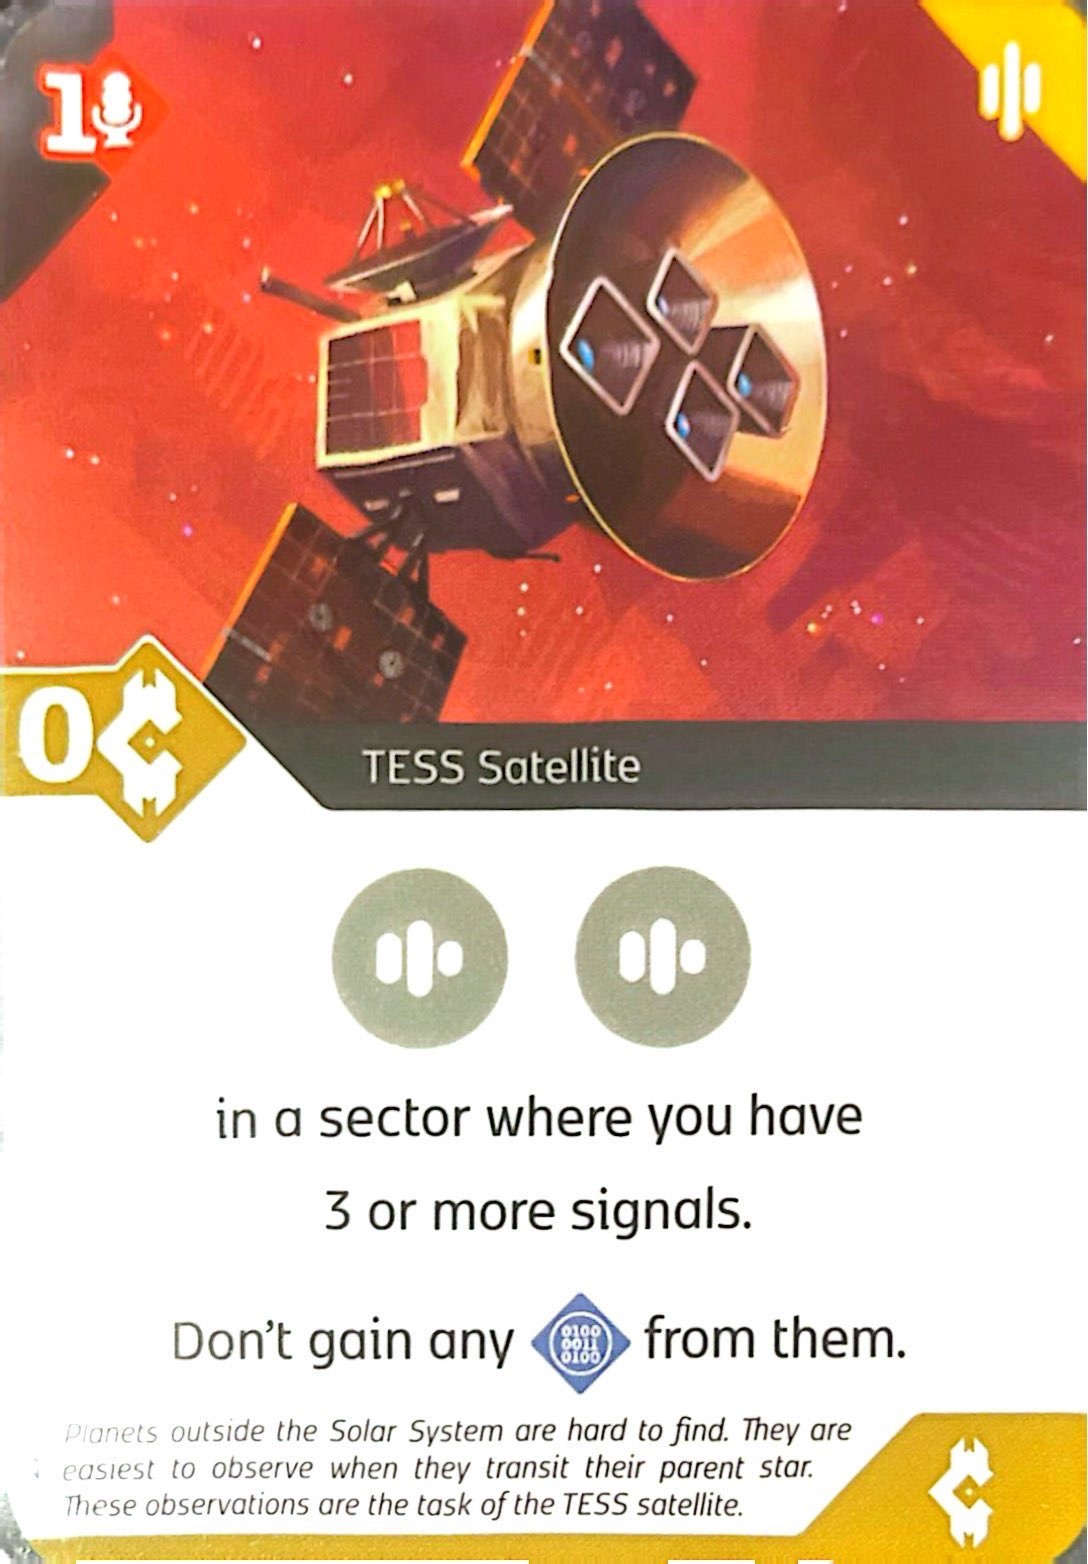
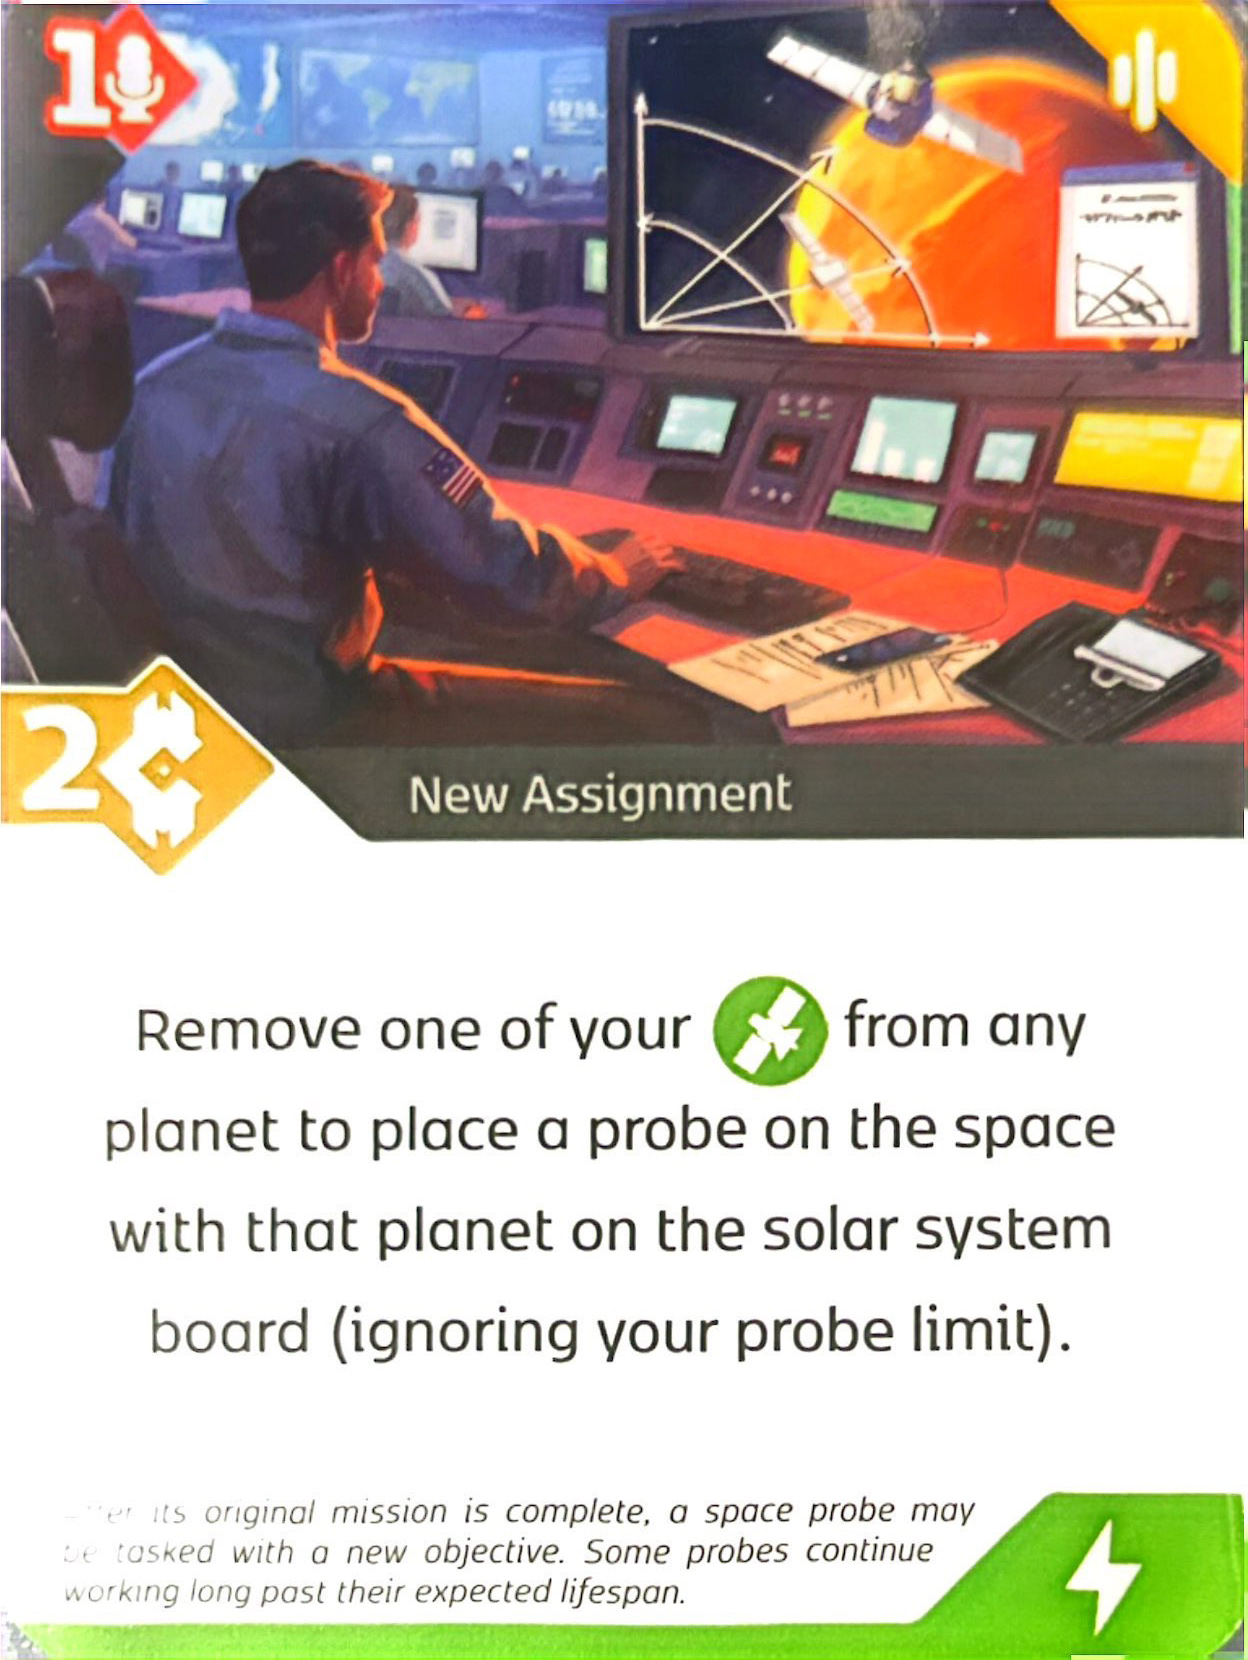
fix: typos

diff --git a/src/data/spaceAgencyCards.ts b/src/data/spaceAgencyCards.ts
@@ -1,8 +1,8 @@
 /*
  * @Author: Ender-Wiggin
  * @Date: 2024-10-22 00:01:17
- * @LastEditors: Ender-Wiggin
- * @LastEditTime: 2025-12-01 16:43:47
+ * @LastEditors: Ender Wiggin
+ * @LastEditTime: 2025-12-15 01:46:06
  * @Description:
  */
 /** biome-ignore-all lint/suspicious/noExplicitAny: <> */
@@ -133,7 +133,7 @@ const _spaceAgencyCards: IBaseCard[] = [
   {
     id: '11',
     name: 'Psyche Probe',
-    image: '/images/cards/space-agency/22.jpg',
+    image: '/images/cards/space-agency/11.jpg',
     freeAction: [{ type: EResource.DATA, value: 1 }],
     sector: ESector.RED,
     price: 3,
@@ -224,13 +224,13 @@ const _spaceAgencyCards: IBaseCard[] = [
   },
   {
     id: '19',
-    name: 'TESS Satellite',
+    name: 'New Assignment',
     image: '/images/cards/space-agency/19.jpg',
     freeAction: [{ type: EResource.PUBLICITY, value: 1 }],
     sector: ESector.YELLOW,
-    price: 0,
-    income: EResource.CREDIT,
-    effects: [e.SIGNAL_ANY(2), DESC('sa.desc.card_19')],
+    price: 2,
+    income: EResource.ENERGY,
+    effects: [DESC('sa.desc.card_19')],
   },
   {
     id: '20',
@@ -266,13 +266,13 @@ const _spaceAgencyCards: IBaseCard[] = [
   },
   {
     id: '22',
-    name: 'New Assignment',
-    image: '/images/cards/space-agency/11.jpg',
+    name: 'TESS Satellite',
+    image: '/images/cards/space-agency/22.jpg',
     freeAction: [{ type: EResource.PUBLICITY, value: 1 }],
     sector: ESector.YELLOW,
-    price: 2,
-    income: EResource.ENERGY,
-    effects: [DESC('sa.desc.card_22')],
+    price: 0,
+    income: EResource.CREDIT,
+    effects: [e.SIGNAL_ANY(2), DESC('sa.desc.card_22')],
   },
   {
     id: '23',

diff --git a/src/data/spaceAgencyAliens.ts b/src/data/spaceAgencyAliens.ts
@@ -2,8 +2,8 @@
 /*
  * @Author: Ender-Wiggin
  * @Date: 2024-10-22 00:01:17
- * @LastEditors: Ender-Wiggin
- * @LastEditTime: 2025-12-01 16:33:54
+ * @LastEditors: Ender Wiggin
+ * @LastEditTime: 2025-12-15 01:24:16
  * @Description:
  */
 
@@ -192,7 +192,7 @@ const _spaceAgencyAliens: IBaseCard[] = [
       e.GLYPH_PURPLE(1, '', 'xs'),
       DESC('OR'),
       e.GLYPH_BLUE(1, '', 'xs'),
-      e.GLYPH_PURPLE(1, '', 'xs'),
+      e.GLYPH_ORANGE(1, '', 'xs'),
       m.END_GAME('sa.desc.card_et_9'),
     ],
   },
